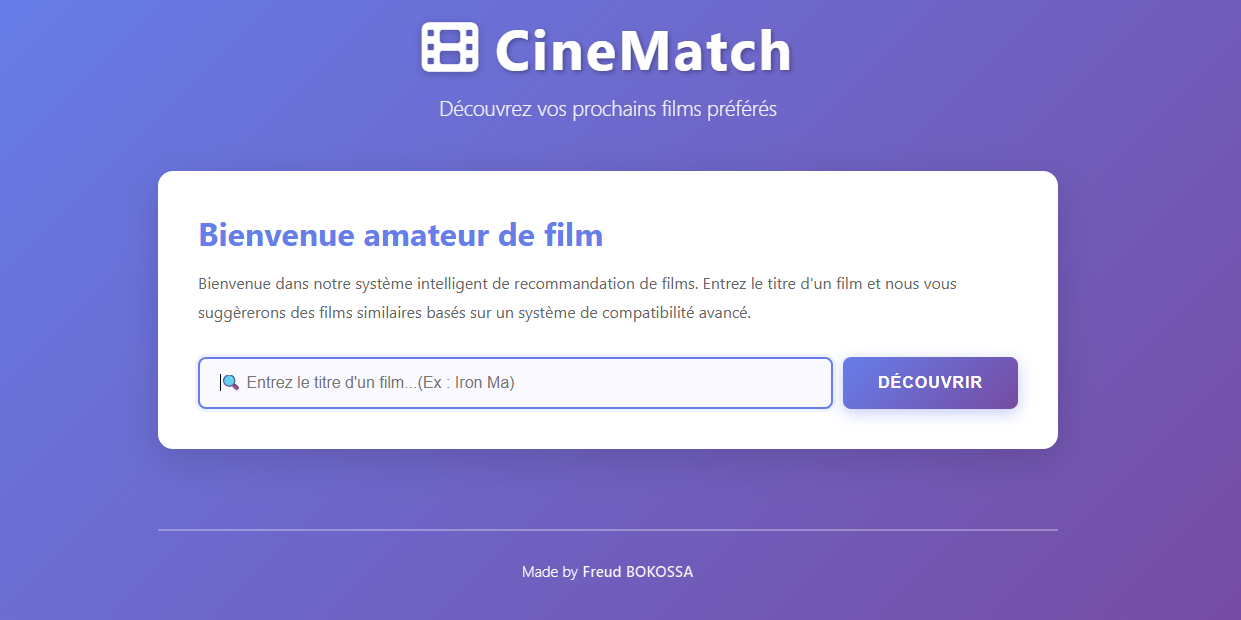
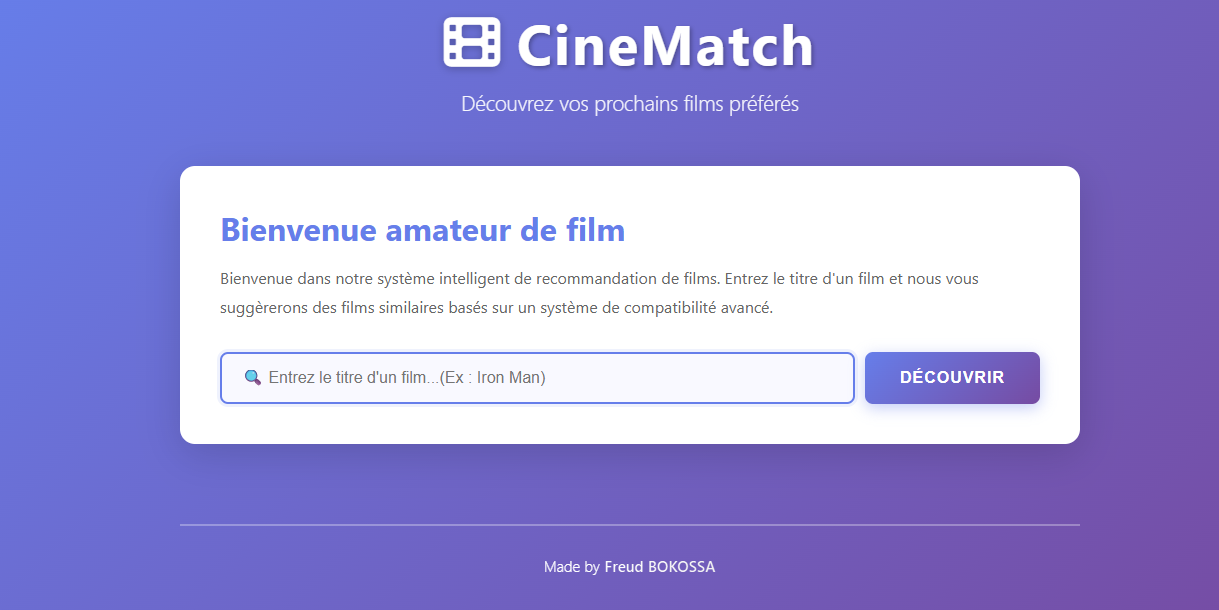
Legeres modifs

diff --git a/Recommendation/Core/templates/Core/index.html b/Recommendation/Core/templates/Core/index.html
@@ -26,7 +26,7 @@
 
             <div class="search-section">
                 <div class="search-container">
-                    <input type="text" id="film" placeholder="🔍 Entrez le titre d'un film...(Ex : Iron Ma)" class="search-input">
+                    <input type="text" id="film" placeholder="🔍 Entrez le titre d'un film...(Ex : Iron Man)" class="search-input">
                     <button id="post_button" data_url="{% url 'research' %}" class="btn btn-primary">Découvrir</button>
                 </div>
                 <div class="loading" id="loading"></div>
